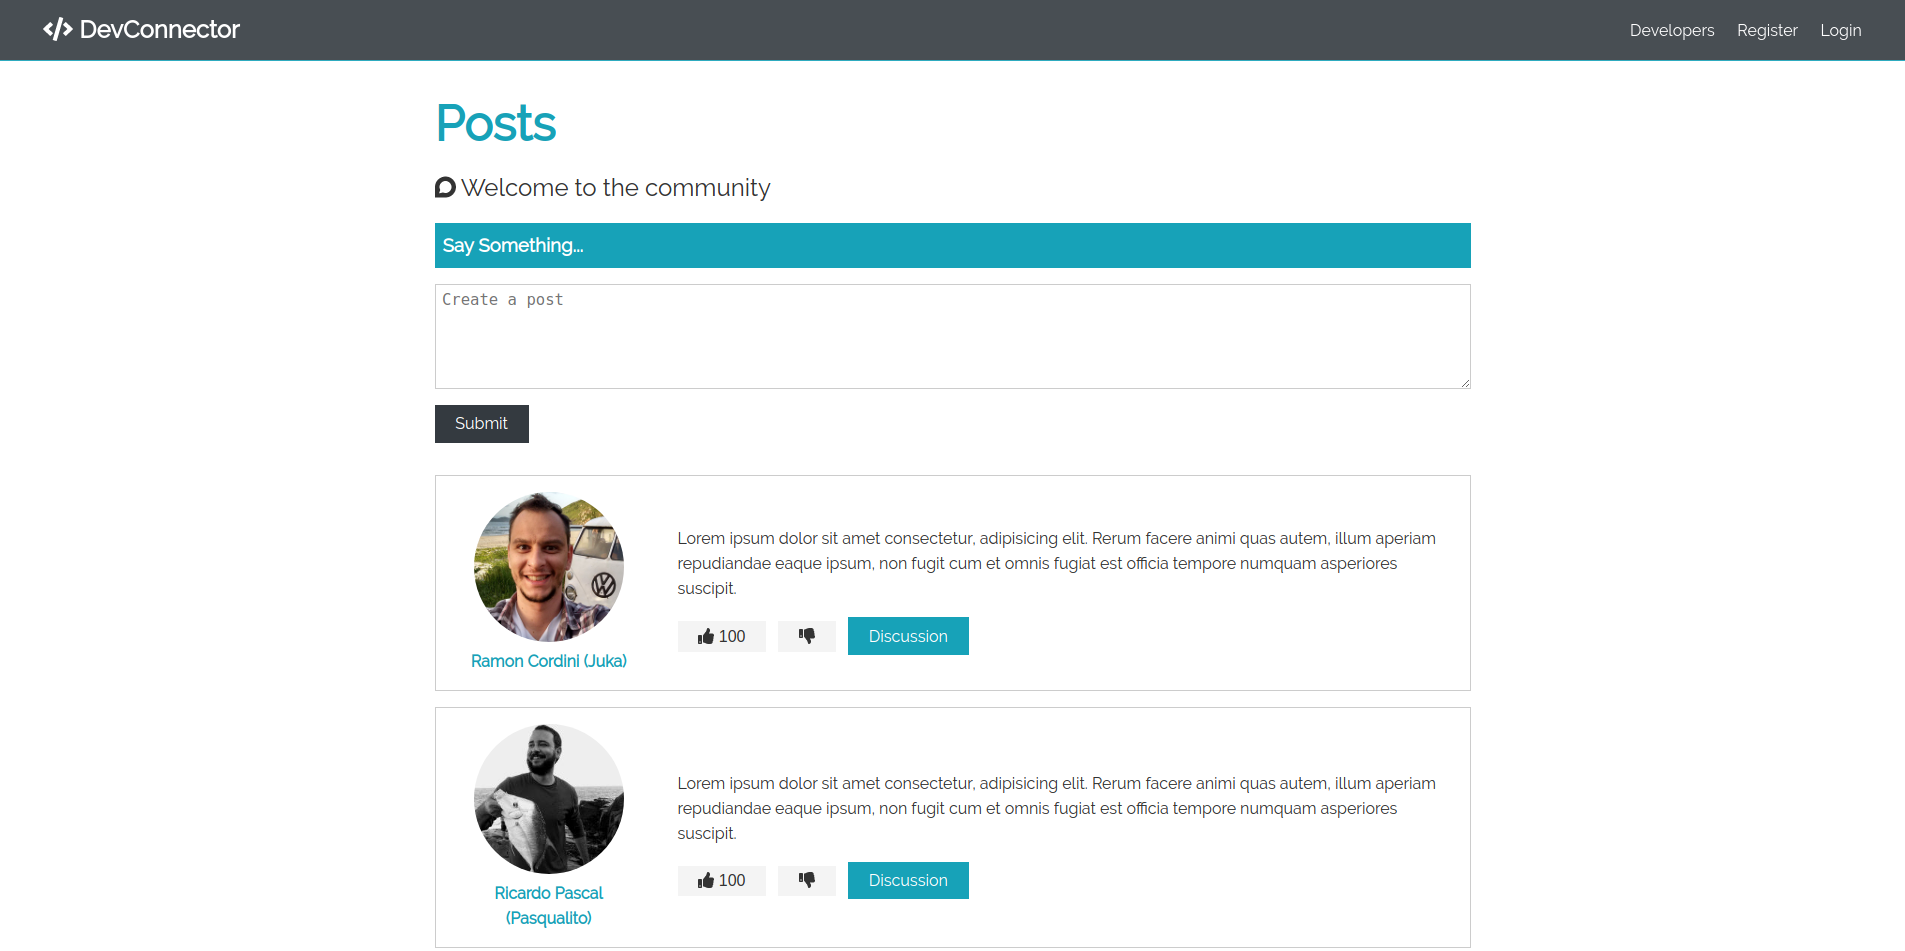
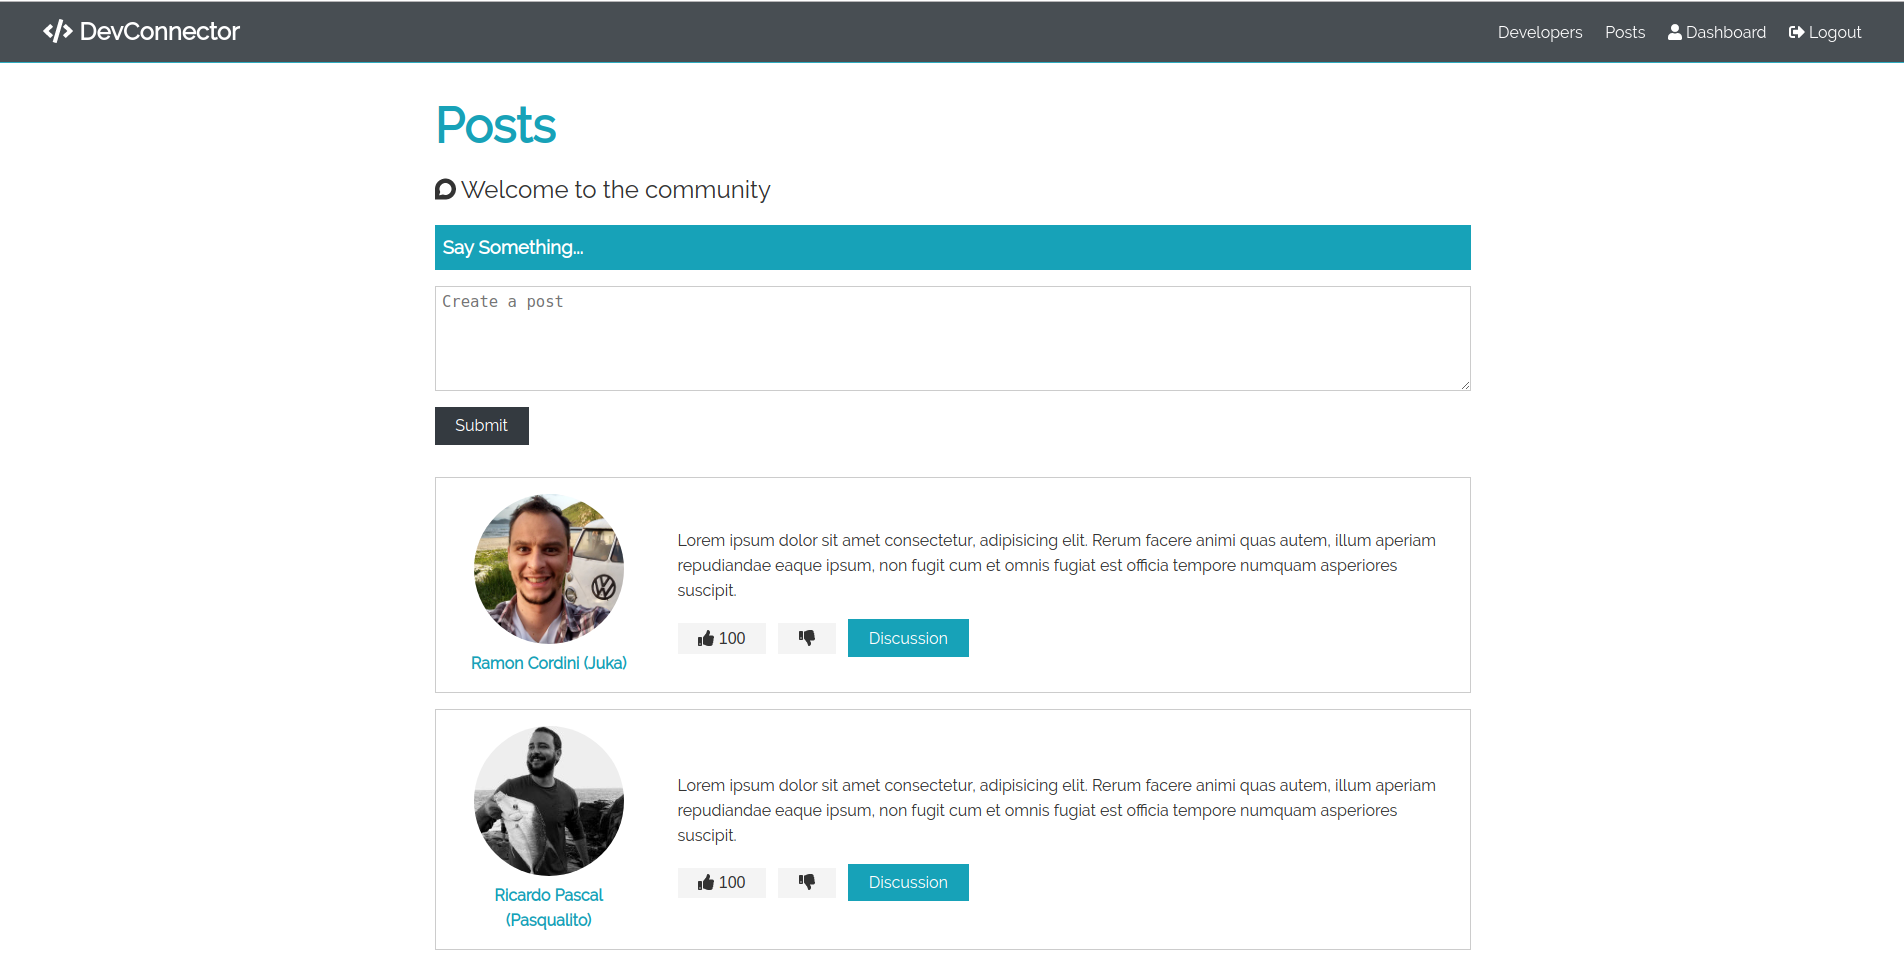
Create post page and CSS style.

diff --git a/post.html b/post.html
@@ -1,0 +1,117 @@
+<!DOCTYPE html>
+<html lang="en">
+
+<head>
+    <meta charset="UTF-8">
+    <meta name="viewport" content="width=device-width, initial-scale=1.0">
+    <meta http-equiv="X-UA-Compatible" content="ie=edge">
+    <script src="https://cdnjs.cloudflare.com/ajax/libs/font-awesome/5.11.2/js/all.js"></script>
+    <link rel="stylesheet" href="bundle.css">
+    <link href="favicon.ico" rel="icon" type="image/x-icon" />
+    <title>Welcome to DevConnector</title>
+</head>
+
+<body>
+    <nav class="navbar bg-dark">
+        <h1>
+            <a href="dashboard.html">
+                <i class="fas fa-code"></i> DevConnector
+            </a>
+        </h1>
+        <ul>
+            <li>
+                <a href="profiles.html">Developers</a>
+            </li>
+
+            <li>
+                <a href="posts.html">Posts</a>
+            </li>
+
+            <li>
+                <a href="dashboard.html">
+                    <i class="fas fa-user"></i>
+                    <span class="hide-sm">Dashboard</span>
+                </a>
+            </li>
+
+            <li>
+                <a href="login.html">
+                    <i class="fas fa-sign-out-alt"></i>
+                    <span class="hide-sm">Logout</span>
+                </a>
+            </li>
+        </ul>
+    </nav>
+    <section class="container">
+        <a href="posts.html" class="btn">Back To Posts</a>
+        <div class="post bg-white p-1 my-1">
+            <div>
+                <a href="profile.html">
+                    <img class="round-img" src="https://avatars1.githubusercontent.com/u/6242494?s=200&v=4" alt="" />
+                    <h4>Ricardo Pascal (Pasqualito)</h4>
+                </a>
+            </div>
+            <div>
+                <p class="my-1">
+                    Lorem ipsum dolor sit amet consectetur adipisicing elit. Sint
+                    possimus corporis sunt necessitatibus! Minus nesciunt soluta
+                    suscipit nobis. Amet accusamus distinctio cupiditate blanditiis
+                    dolor? Illo perferendis eveniet cum cupiditate aliquam?
+                </p>
+            </div>
+        </div>
+
+        <div class="post-form">
+            <div class="post-form-header bg-primary">
+                <h3>Say Something...</h3>
+            </div>
+
+            <form class="form my-1">
+                <textarea cols="30" rows="5" placeholder="Create a post"></textarea>
+                <input type="submit" value="Submit" class="btn btn-dark my-1">
+            </form>
+
+            <div class="posts">
+                <div class="post bg-white my-1">
+                    <div>
+                        <a href="profile.html">
+                            <img src="https://avatars1.githubusercontent.com/u/6242494?s=200&v=4"
+                                alt="" class="round-img">
+                            <h4>Ricardo Pascal (Pasqualito)</h4>
+                        </a>
+                    </div>
+                    <div>
+                        <p class="my-1">
+                            Lorem ipsum dolor sit amet consectetur, adipisicing elit. Rerum facere animi quas autem,
+                            illum aperiam repudiandae eaque ipsum, non fugit cum et omnis fugiat est officia tempore
+                            numquam asperiores suscipit.
+                        </p>
+                    </div>
+                </div>
+            </div>
+
+            <div class="posts">
+                <div class="post bg-white my-1">
+                    <div>
+                        <a href="profile.html">
+                            <img src="https://avatars1.githubusercontent.com/u/6242494?s=200&v=4" alt=""
+                                class="round-img">
+                            <h4>Ricardo Pascal (Pasqualito)</h4>
+                        </a>
+                    </div>
+                    <div>
+                        <p class="my-1">
+                            Lorem ipsum dolor sit amet consectetur, adipisicing elit. Rerum facere animi quas autem,
+                            illum aperiam repudiandae eaque ipsum, non fugit cum et omnis fugiat est officia tempore
+                            numquam asperiores suscipit.
+                        </p>
+                    </div>
+                </div>
+            </div>
+        </div>
+    </section>
+
+    <script src="bundle.js" async></script>
+</body>
+
+</html>

diff --git a/posts.html b/posts.html
@@ -24,11 +24,21 @@
             </li>
 
             <li>
-                <a href="register.html">Register</a>
+                <a href="posts.html">Posts</a>
             </li>
 
             <li>
-                <a href="login.html">Login</a>
+                <a href="dashboard.html">
+                    <i class="fas fa-user"></i>
+                    <span class="hide-sm">Dashboard</span>
+                </a>
+            </li>
+
+            <li>
+                <a href="login.html">
+                    <i class="fas fa-sign-out-alt"></i>
+                    <span class="hide-sm">Logout</span>
+                </a>
             </li>
         </ul>
     </nav>

diff --git a/README.md b/README.md
@@ -57,6 +57,7 @@ The files will be created in the folder **/dist**.
 ![](assets/screenshots/11.png)
 ![](assets/screenshots/12.png)
 ![](assets/screenshots/13.png)
+![](assets/screenshots/14.png)
 
 # Become a Patron of Traversy Media&trade;
 
